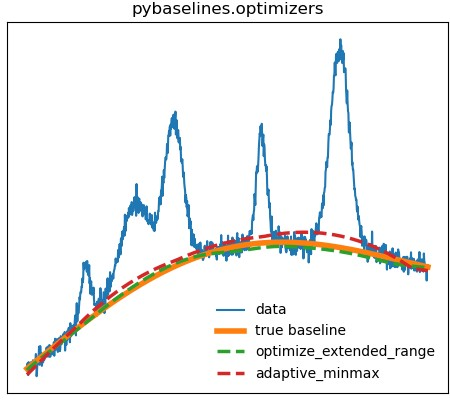
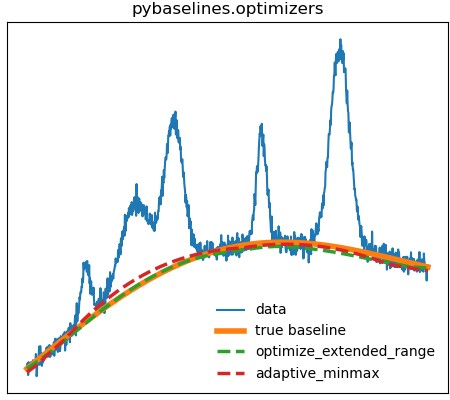
DOCS: Updated examples and images
Updated the example program to give a better fit for the optimizer functions and updated the image.

diff --git a/examples/plot_baselines.py b/examples/plot_baselines.py
@@ -76,8 +76,9 @@ if __name__ == '__main__':
             (swima, (y,), {'extrapolate_window': 50})
         ),
         'optimizers': (
-            (optimize_extended_range, (y, x, 'aspls', 'both')),
-            (adaptive_minmax, (y, x)),
+            (optimize_extended_range, (y, x, 'aspls', 'both', 0.25),
+             {'pad_kwargs': {'extrapolate_window': 50}}),
+            (adaptive_minmax, (y, x), {'constrained_fraction': 0.05}),
         )
     }
 

diff --git a/tools/plots_for_docs.py b/tools/plots_for_docs.py
@@ -84,8 +84,9 @@ if __name__ == '__main__':
             (swima, (y,), {'extrapolate_window': 50})
         ),
         'optimizers': (
-            (optimize_extended_range, (y, x, 'aspls', 'both')),
-            (adaptive_minmax, (y, x)),
+            (optimize_extended_range, (y, x, 'aspls', 'both', 0.25),
+             {'pad_kwargs': {'extrapolate_window': 50}}),
+            (adaptive_minmax, (y, x), {'constrained_fraction': 0.05}),
         )
     }
 
